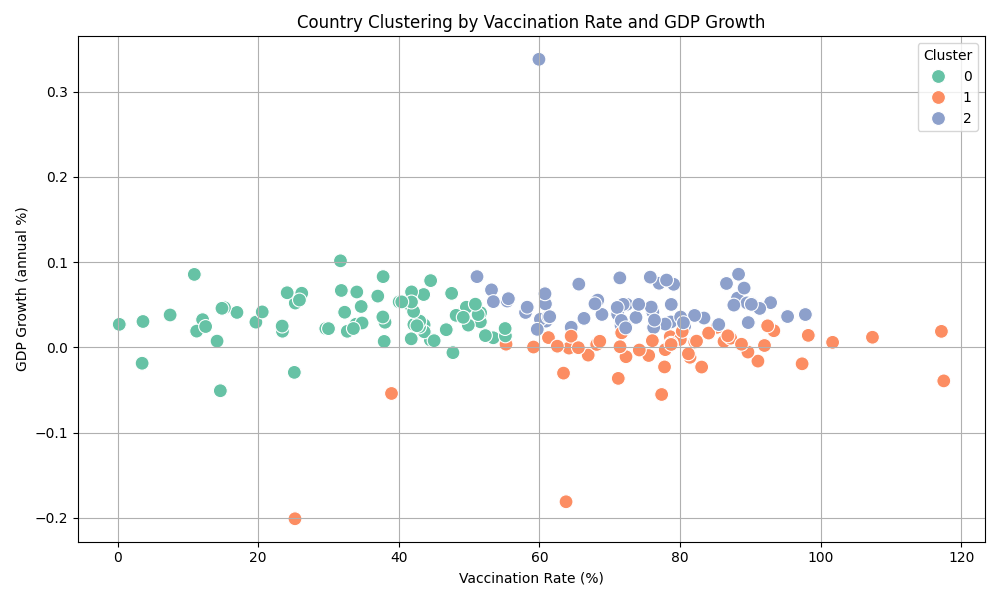
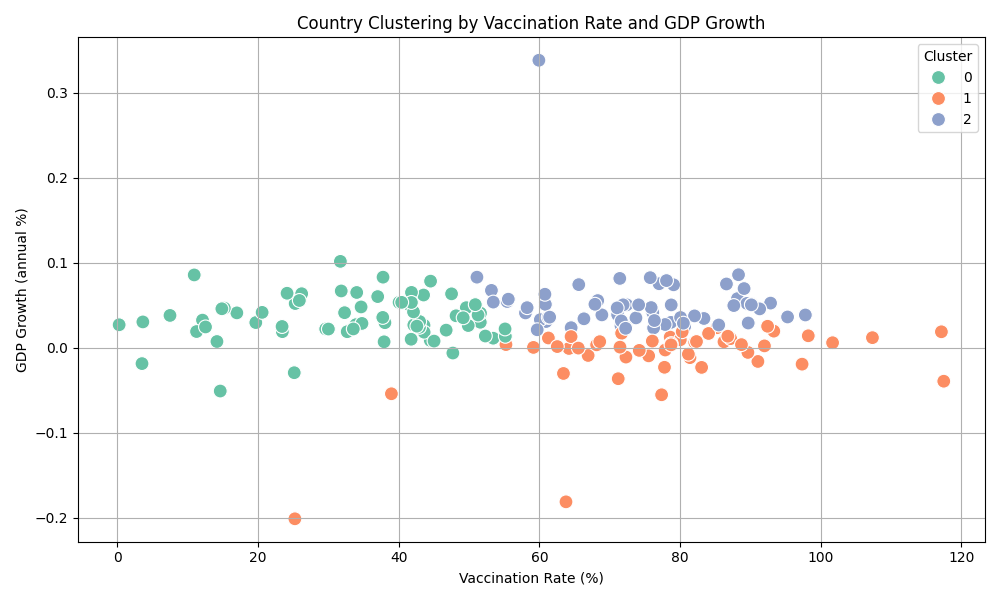
Cleaned up analysis.py, removing redundant visuals

diff --git a/code/analysis.py b/code/analysis.py
@@ -74,7 +74,7 @@ plt.grid(True)
 plt.legend(title="Cluster")
 plt.tight_layout()
 plt.savefig(os.path.join(visualizations_folder, "country_clustering_vaccination_gdp.png"))
-plt.show()
+
 
 # === 3. Linear Regression ===
 X = df_latest[["Vaccination Rate"]]
@@ -101,7 +101,7 @@ plt.legend()
 plt.grid(True)
 plt.tight_layout()
 plt.savefig(os.path.join(visualizations_folder, "linear_regression_vaccination_gdp.png"))
-plt.show()
+
 
 # === 4. Correlation Heatmap ===
 cols_to_convert = [
@@ -124,92 +124,92 @@ plt.figure(figsize=(12, 8))
 sns.heatmap(correlation_matrix, annot=True, cmap='coolwarm', fmt=".2f", linewidths=0.5)
 plt.title("Correlation Heatmap")
 plt.tight_layout()
-plt.savefig(os.path.join(visualizations_folder, "correlation_heatmap.png"))
-plt.show()
+plt.savefig(os.path.join(visualizations_folder, "correlation_matrix.png"))
 
 # === 5. Heatmap of Cases per 100k ===
-latest_cases = df.sort_values('Date').drop_duplicates('Country/Region', keep='last')
-top_countries = latest_cases.nlargest(30, 'Cases per 100k')['Country/Region']
-heatmap_data_df = latest_cases[latest_cases['Country/Region'].isin(top_countries)].set_index('Country/Region')[['Cases per 100k']] # Ensure it's a DataFrame
+#latest_cases = df.sort_values('Date').drop_duplicates('Country/Region', keep='last')
+#top_countries = latest_cases.nlargest(30, 'Cases per 100k')['Country/Region']
+#heatmap_data_df = latest_cases[latest_cases['Country/Region'].isin(top_countries)].set_index('Country/Region')[['Cases per 100k']] # Ensure it's a DataFrame
 
 # Using pivot_table is good if you have multiple entries per country and need aggregation.
 # If set_index already gives unique countries, this is fine.
-heatmap_matrix = heatmap_data_df.pivot_table(index='Country/Region', values='Cases per 100k', aggfunc='mean')
+#heatmap_matrix = heatmap_data_df.pivot_table(index='Country/Region', values='Cases per 100k', aggfunc='mean')
 
 
-plt.figure(figsize=(14, 10))
-sns.heatmap(heatmap_matrix, cmap='YlOrRd', annot=True, fmt='.1f', linewidths=.5)
-plt.title('COVID-19 Cases per 100,000 People by Country', fontsize=16)
-plt.tight_layout()
-plt.savefig(os.path.join(visualizations_folder, "cases_per_100k_heatmap.png"))
-plt.show()
+#plt.figure(figsize=(14, 10))
+#sns.heatmap(heatmap_matrix, cmap='YlOrRd', annot=True, fmt='.1f', linewidths=.5)
+#plt.title('COVID-19 Cases per 100,000 People by Country', fontsize=16)
+#plt.tight_layout()
+#plt.savefig(os.path.join(visualizations_folder, "cases_per_100k_heatmap.png"))
+
 
 # === 6. GDP Growth Trends by Country (Annual) ===
-df['Year'] = pd.to_datetime(df['Date']).dt.year
-country_gdp = df.groupby(['Country/Region', 'Year'])['GDP growth (annual %)'].mean().reset_index()
+#df['Year'] = pd.to_datetime(df['Date']).dt.year
+#country_gdp = df.groupby(['Country/Region', 'Year'])['GDP growth (annual %)'].mean().reset_index()
 
-countries_to_plot = ['United States', 'China', 'Germany', 'Japan', 'United Kingdom',
-                     'Brazil', 'India', 'South Africa', 'Australia']
+#countries_to_plot = ['United States', 'China', 'Germany', 'Japan', 'United Kingdom',
+                     #'Brazil', 'India', 'South Africa', 'Australia']
 
-plt.figure(figsize=(14, 8))
-for country in countries_to_plot:
-    if country in country_gdp['Country/Region'].values:
-        subset = country_gdp[country_gdp['Country/Region'] == country]
-        plt.plot(subset['Year'], subset['GDP growth (annual %)'], marker='o', linewidth=2, label=country)
+#plt.figure(figsize=(14, 8))
+#for country in countries_to_plot:
+#    if country in country_gdp['Country/Region'].values:
+#        subset = country_gdp[country_gdp['Country/Region'] == country]
+#        plt.plot(subset['Year'], subset['GDP growth (annual %)'], marker='o', linewidth=2, label=country)
 
-plt.title('GDP Growth Trends by Country (Annual)', fontsize=16)
-plt.xlabel('Year')
-plt.ylabel('GDP Growth (%)')
-plt.grid(True, linestyle='--', alpha=0.7)
-plt.legend(loc='best')
-plt.axhline(y=0, color='black', linestyle='-', alpha=0.3)
-plt.tight_layout()
-plt.savefig(os.path.join(visualizations_folder, "gdp_growth_trends_annual.png"))
-plt.show()
+#plt.title('GDP Growth Trends by Country (Annual)', fontsize=16)
+#plt.xlabel('Year')
+#plt.ylabel('GDP Growth (%)')
+#plt.grid(True, linestyle='--', alpha=0.7)
+#plt.legend(loc='best')
+#plt.axhline(y=0, color='black', linestyle='-', alpha=0.3)
+#plt.tight_layout()
+#plt.savefig(os.path.join(visualizations_folder, "gdp_growth_trends_annual.png"))
+
 
 # === 7. GDP vs Vaccination Rate Bar Chart ===
-countries_to_compare = ['United States', 'China', 'Germany', 'Brazil', 'India',
-                        'South Africa', 'United Kingdom', 'Israel', 'Japan', 'Australia']
+#countries_to_compare = ['United States', 'China', 'Germany', 'Brazil', 'India',
+#                        'South Africa', 'United Kingdom', 'Israel', 'Japan', 'Australia']
 
 # Ensure latest_cases is used here as intended by the original script context
-comparison_data = latest_cases[latest_cases['Country/Region'].isin(countries_to_compare)].copy()
+#comparison_data = latest_cases[latest_cases['Country/Region'].isin(countries_to_compare)].copy()
 # Ensure the countries_to_compare are actually present in comparison_data and in the desired order for plotting
 # Reindex comparison_data to match the order of countries_to_compare if necessary, and handle missing countries
-comparison_data = comparison_data.set_index('Country/Region').reindex(countries_to_compare).reset_index()
-comparison_data = comparison_data.dropna(subset=['GDP growth (annual %)', 'Vaccination Rate']) # Drop if key data is missing for a country
+#comparison_data = comparison_data.set_index('Country/Region').reindex(countries_to_compare).reset_index()
+#comparison_data = comparison_data.dropna(subset=['GDP growth (annual %)', 'Vaccination Rate']) # Drop if key data is missing for a country
 
-fig, ax1 = plt.subplots(figsize=(14, 8))
-x = np.arange(len(comparison_data['Country/Region'])) # Use length of actual data to plot
-width = 0.35
+#fig, ax1 = plt.subplots(figsize=(14, 8))
+#x = np.arange(len(comparison_data['Country/Region'])) # Use length of actual data to plot
+#width = 0.35
 
 # Bar for GDP
-ax1.bar(x - width/2, comparison_data['GDP growth (annual %)'], width, label='GDP Growth (%)', color='steelblue')
-ax1.set_ylabel('GDP Growth (%)')
+#ax1.bar(x - width/2, comparison_data['GDP growth (annual %)'], width, label='GDP Growth (%)', color='steelblue')
+#ax1.set_ylabel('GDP Growth (%)')
 # Dynamic Y-limits for GDP
-gdp_min = comparison_data['GDP growth (annual %)'].min()
-gdp_max = comparison_data['GDP growth (annual %)'].max()
-ax1.set_ylim([min(0, gdp_min) -1 , gdp_max + 1])
+#gdp_min = comparison_data['GDP growth (annual %)'].min()
+#gdp_max = comparison_data['GDP growth (annual %)'].max()
+#ax1.set_ylim([min(0, gdp_min) -1 , gdp_max + 1])
 
 
 # Bar for Vaccination Rate
-ax2 = ax1.twinx()
-ax2.bar(x + width/2, comparison_data['Vaccination Rate'], width, label='Vaccination Rate (%)', color='orangered')
-ax2.set_ylabel('Vaccination Rate (%)')
-ax2.set_ylim([0, 105]) # Set Y-limit for percentage up to 100 (or slightly more for padding)
+#ax2 = ax1.twinx()
+#ax2.bar(x + width/2, comparison_data['Vaccination Rate'], width, label='Vaccination Rate (%)', color='orangered')
+#ax2.set_ylabel('Vaccination Rate (%)')
+#ax2.set_ylim([0, 105]) # Set Y-limit for percentage up to 100 (or slightly more for padding)
 
-ax1.set_xticks(x)
-ax1.set_xticklabels(comparison_data['Country/Region'], rotation=45, ha='right')
+#ax1.set_xticks(x)
+#ax1.set_xticklabels(comparison_data['Country/Region'], rotation=45, ha='right')
 
-lines1, labels1 = ax1.get_legend_handles_labels()
-lines2, labels2 = ax2.get_legend_handles_labels()
-ax1.legend(lines1 + lines2, labels1 + labels2, loc='upper left')
+#lines1, labels1 = ax1.get_legend_handles_labels()
+#lines2, labels2 = ax2.get_legend_handles_labels()
+#ax1.legend(lines1 + lines2, labels1 + labels2, loc='upper left')
 
-plt.title('Vaccination Rates vs. GDP Growth by Country', fontsize=16)
-plt.tight_layout()
-fig.savefig(os.path.join(visualizations_folder, "gdp_vs_vaccination_barchart.png"))
-plt.show()
+#plt.title('Vaccination Rates vs. GDP Growth by Country', fontsize=16)
+#plt.tight_layout()
+#fig.savefig(os.path.join(visualizations_folder, "gdp_vs_vaccination_barchart.png"))
+
 
 # === 8. Plotly Choropleth map of Vaccination Rate ===
+latest_cases = df.sort_values('Date').drop_duplicates('Country/Region', keep='last')
 fig_choropleth = px.choropleth(latest_cases,
                                locations="Country/Region",
                                locationmode="country names",
@@ -226,22 +226,22 @@ fig_choropleth.show()
 
 # === 9. Vaccination Rate Over Time for selected countries ===
 # countries_to_plot is defined in section 6
-vaccination_trend = df[df['Country/Region'].isin(countries_to_plot)].copy() # Added .copy()
-vaccination_trend['Date'] = pd.to_datetime(vaccination_trend['Date'])
+#vaccination_trend = df[df['Country/Region'].isin(countries_to_plot)].copy() # Added .copy()
+#vaccination_trend['Date'] = pd.to_datetime(vaccination_trend['Date'])
 
-plt.figure(figsize=(14, 8))
-for country in countries_to_plot:
-    country_data = vaccination_trend[vaccination_trend['Country/Region'] == country]
-    if not country_data.empty: # Ensure there's data to plot
-        plt.plot(country_data['Date'], country_data['Vaccination Rate'], label=country)
+#plt.figure(figsize=(14, 8))
+#for country in countries_to_plot:
+#    country_data = vaccination_trend[vaccination_trend['Country/Region'] == country]
+#    if not country_data.empty: # Ensure there's data to plot
+#        plt.plot(country_data['Date'], country_data['Vaccination Rate'], label=country)
 
-plt.title('Vaccination Rate Over Time')
-plt.xlabel('Date')
-plt.ylabel('Vaccination Rate (%)')
-plt.legend()
-plt.grid(True)
-plt.tight_layout()
-plt.savefig(os.path.join(visualizations_folder, "vaccination_rate_over_time.png"))
-plt.show()
+#plt.title('Vaccination Rate Over Time')
+#plt.xlabel('Date')
+#plt.ylabel('Vaccination Rate (%)')
+#plt.legend()
+#plt.grid(True)
+#plt.tight_layout()
+#plt.savefig(os.path.join(visualizations_folder, "vaccination_rate_over_time.png"))
+
 
 print(f"\nAll visualizations have been attempted to be saved in the '{visualizations_folder}' folder.")
